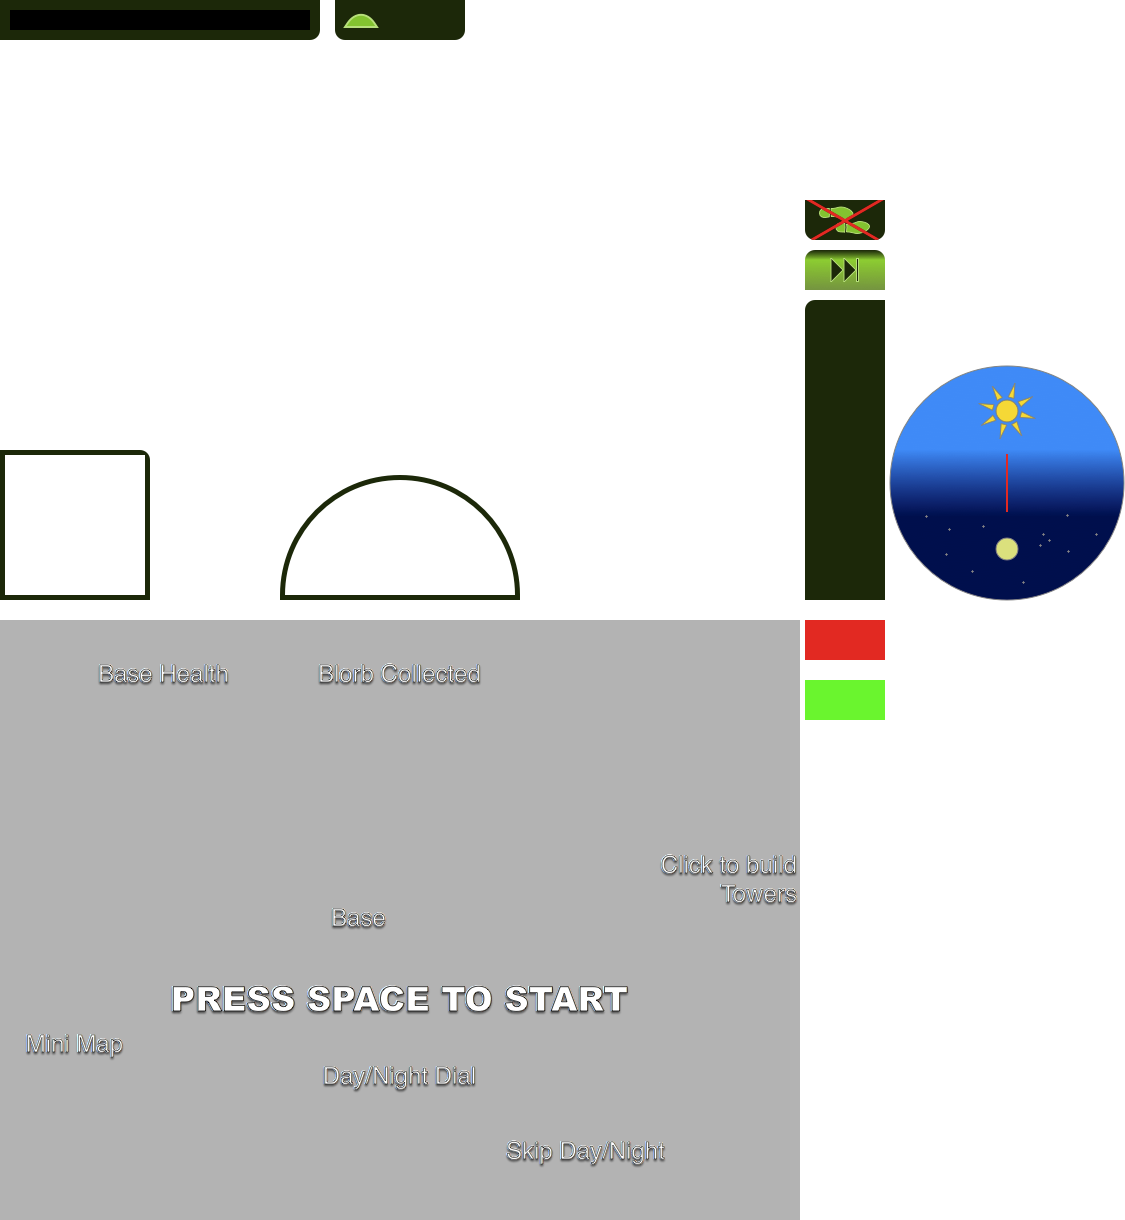
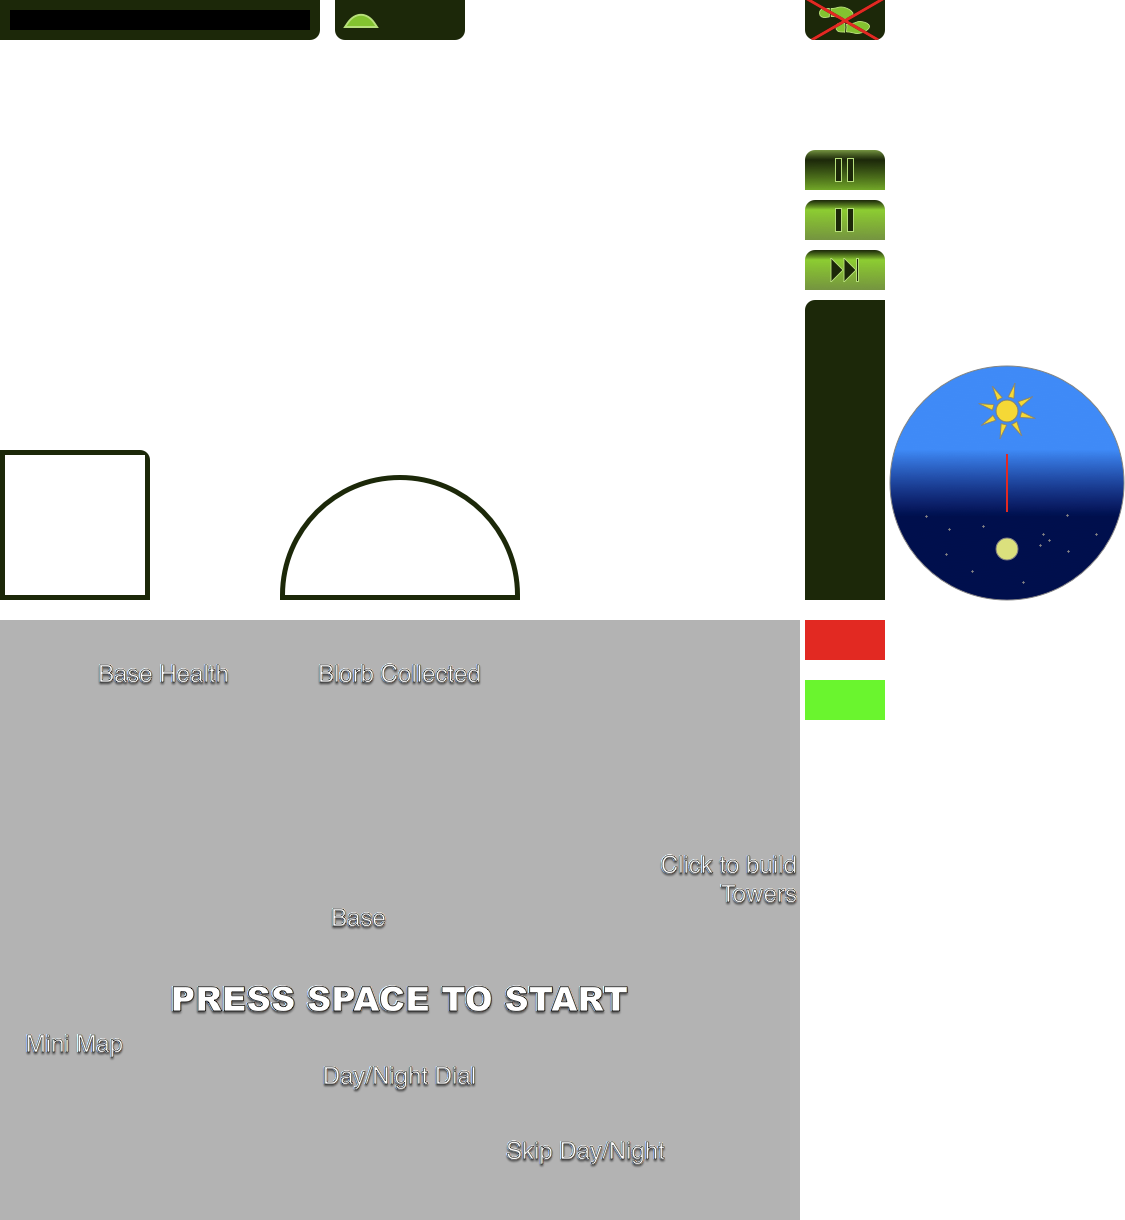
add pause button, fix issue with blorb amount not showing up

Changed region(s): [[0.7156, 0.1246, 0.8089, 0.218], [0.7156, 0.0, 0.8089, 0.0311]]

diff --git a/Assets/Managers/WorldManager.cs b/Assets/Managers/WorldManager.cs
@@ -3,8 +3,9 @@ using System.Collections;
 
 public class WorldManager : MonoBehaviour {
 	public static WorldManager instance;
-	public Light light;
+	public Light worldLight;
 	public Transform dayNightDial;
+	public SpriteRenderer pauseButton;
     public static float PixelOffset = 750.0f;
 	public bool isDay = true;
 
@@ -27,21 +28,27 @@ public class WorldManager : MonoBehaviour {
 		dayNightDial.Rotate (0, 0, -180f * Time.deltaTime / phaseDuration);
 	}
 
-	public void PauseGame () {
-		Time.timeScale = 0f;
-	}
-
-	public void UnpauseGame () {
-		Time.timeScale = 1f;
+	public void PauseButton () {
+		if (!GUIManager.Instance.OnTutorialScreen) {
+			if (Time.timeScale == 0f) {
+				Time.timeScale = 1f;
+				pauseButton.color = new Color(1f, 1f, 1f, 1f);
+			} else {
+				Time.timeScale = 0f;
+				pauseButton.color = new Color(1f, 1f, 1f, 0.5f);
+			}
+		}
 	}
 
 	public void SkipButton () {
-		if (isDay) {
-			startNextPhase = 0f;
-			dayNightDial.localEulerAngles = new Vector3(0, 0, -90);
-		} else if (WaveManager.instance.waveEnded) {
-			startNextPhase = 0f;
-			dayNightDial.localEulerAngles = new Vector3(0, 0, 90);
+		if (Time.timeScale != 0f) {
+			if (isDay) {
+				startNextPhase = 0f;
+				dayNightDial.localEulerAngles = new Vector3(0, 0, -90);
+			} else if (WaveManager.instance.waveEnded) {
+				startNextPhase = 0f;
+				dayNightDial.localEulerAngles = new Vector3(0, 0, 90);
+			}
 		}
 	}
 
@@ -69,9 +76,9 @@ public class WorldManager : MonoBehaviour {
 		}
 
 		if (isDay) {
-			light.intensity += (1f - light.intensity) * 0.01f;
+			worldLight.intensity += (1f - worldLight.intensity) * 0.01f;
 		} else {
-			light.intensity += (0.4f - light.intensity) * 0.01f;
+			worldLight.intensity += (0.4f - worldLight.intensity) * 0.01f;
 		}
 	}
 }

diff --git a/Assets/Base/Center.cs b/Assets/Base/Center.cs
@@ -96,8 +96,9 @@ public class Center : MonoBehaviour {
 		this.renderer.enabled = false;
         this.transform.FindChild("Player").renderer.enabled = false;
 		healthbar = this.transform.Find ("GUI/HUD/Health");
+
 		resourcePoolText.renderer.sortingLayerName = "UI";
-		resourcePoolText.renderer.sortingOrder = 1;
+		resourcePoolText.renderer.sortingOrder = 2;
 	}
 
     public void FindAllPossiblePlacements()

diff --git a/Assets/Managers/GUIManager.cs b/Assets/Managers/GUIManager.cs
@@ -78,6 +78,7 @@ public class GUIManager : MonoBehaviour {
 		skipButtonDay = skipButtonNight = skipButton.localPosition;
 		moveIndicatorDay = moveIndicatorNight = moveIndicator.localPosition;
 
+		// magic numbers for how much to move each of the elements to be out of frame
 		towersNight.x += 3.2f;
 		skipButtonNight.y -= 1.64f;
 		moveIndicatorNight.y -= 1.64f;

diff --git a/Assets/GUI/PauseButton.cs b/Assets/GUI/PauseButton.cs
@@ -1,0 +1,8 @@
+using UnityEngine;
+using System.Collections;
+
+public class PauseButton : MonoBehaviour {
+	void OnMouseDown () {
+		WorldManager.instance.PauseButton ();
+	}
+}
